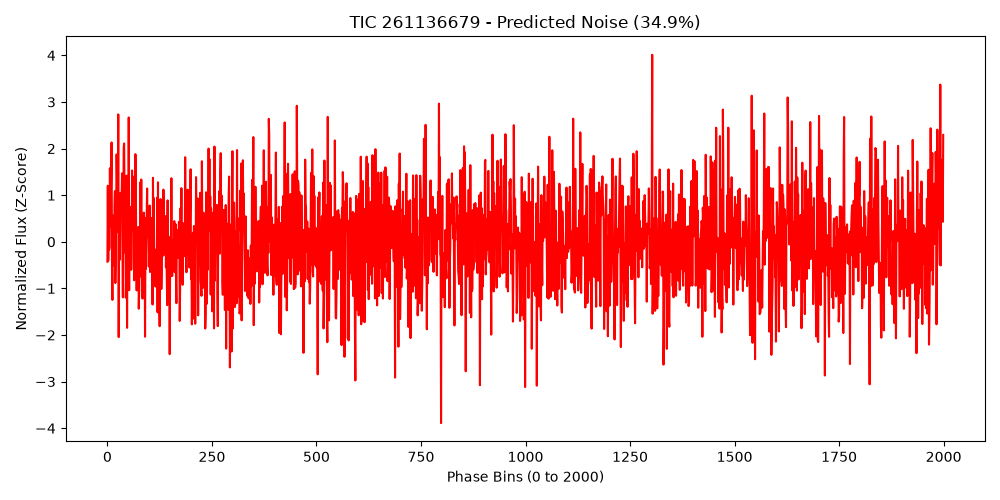
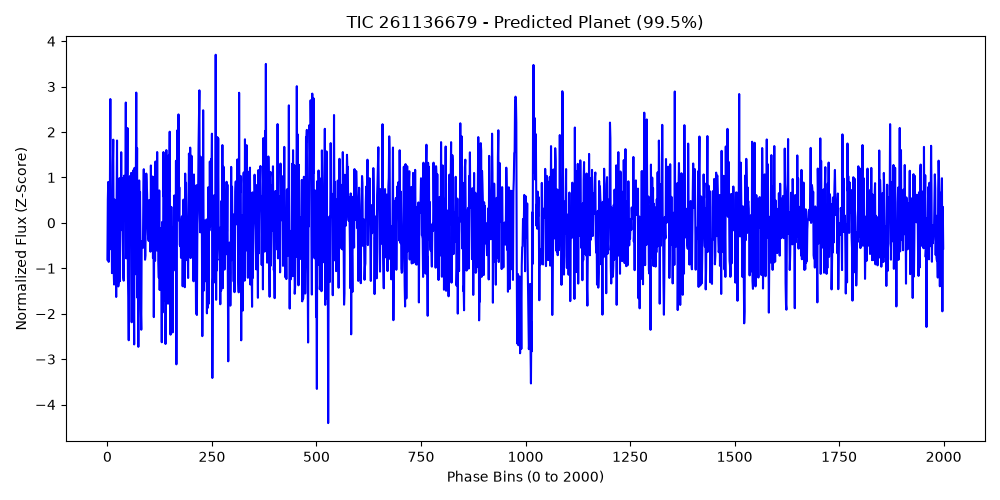
fix(visu): fixing BLS algorithm issues

diff --git a/src/pipeline/predict_star.py b/src/pipeline/predict_star.py
@@ -33,9 +33,9 @@ def process_and_predict(star_id):
     # This is a critical astronomical step: We don't know the orbital period of a random star.
     # We use BLS to mathematically search for the strongest periodic dip, and use that to fold!
     print("3. Running BLS algorithm to find candidate transit period...")
-    # By omitting the manual period grid, lightkurve automatically generates a highly 
-    # optimized, ultra-fine frequency grid to avoid missing the true period by a fraction of a day.
-    periodogram = flattened_lc.to_periodogram(method='bls')
+    # We restrict the search to 1 to 20 days to avoid high-frequency noise aliases (like 0.33 days),
+    # but we use an ultra-high resolution of 100,000 points to ensure we nail the exact fractional period!
+    periodogram = flattened_lc.to_periodogram(method='bls', period=np.linspace(1, 20, 100000))
     best_period = periodogram.period_at_max_power
     best_epoch = periodogram.transit_time_at_max_power
     
